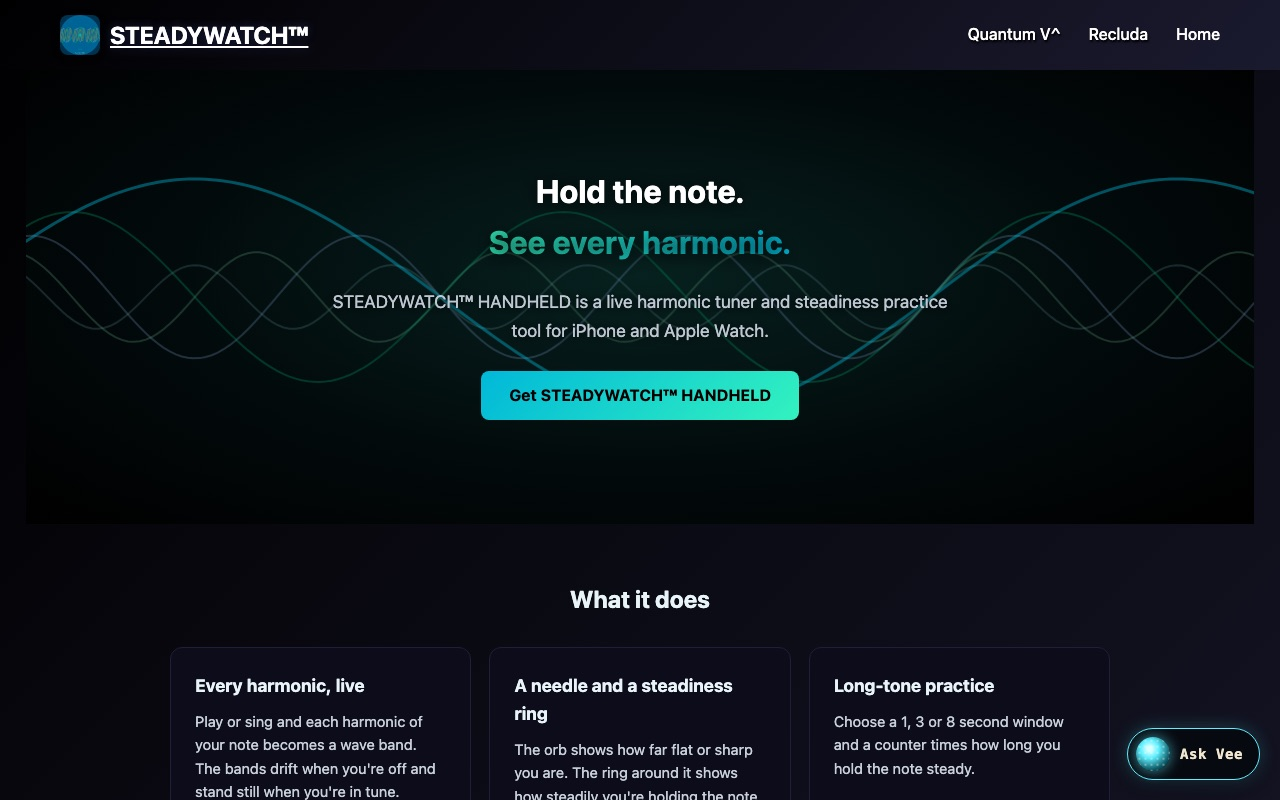
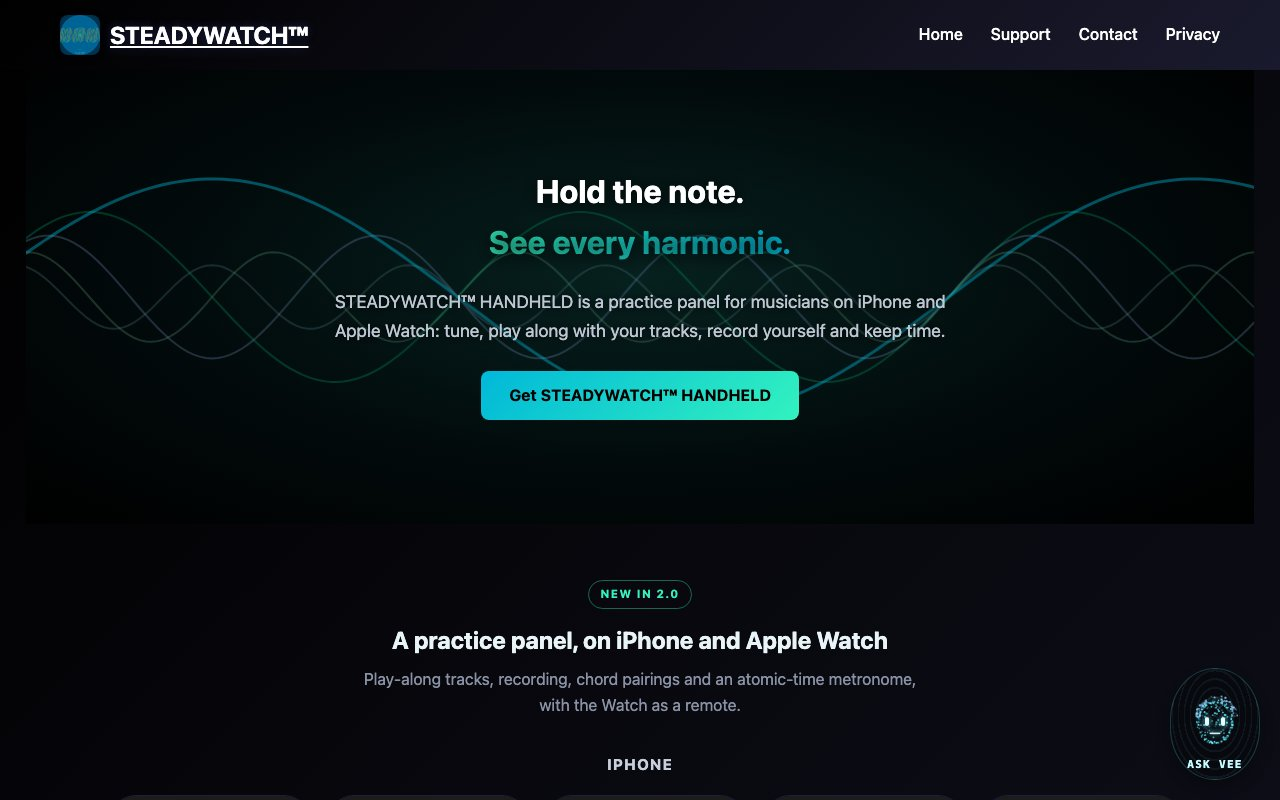
HANDHELD exhibit for 2.0 (approved): practice panel, six 2.0 modules, 2.0 screenshots, new steady-watch.com shot; office shows App Store v2.0.0

diff --git a/index.html b/index.html
@@ -510,13 +510,13 @@ const PROJECTS = [
     floor: 'l2', pos: [3.6, 3.2, 6.92], rotY: Math.PI, size: [3.7, 3.7]
   },
   {
-    id: 'handheld', name: 'STEADYWATCH™ HANDHELD', tagline: 'Harmonic Tuner', wing: 'Apps',
-    desc: 'A live harmonic tuner and steadiness practice tool for iPhone and Apple Watch. Play or sing, and every harmonic of your note becomes a wave band that stands still when you\'re in tune.',
-    modules: [['HARMONIC BANDS','Each harmonic of your note is a wave band: the bands drift while you\'re off pitch and stand still in tune'],['ORB NEEDLE','How far flat or sharp you are'],['STEADINESS RING','How steadily you hold the note over a 1, 3 or 8 second window, with a counter that times the hold'],['CHORDS','The notes sounding, the chord they make and the song\'s key'],['A4 TUNING','Set A4 from 415 to 446 Hz, with the Digital Crown on Apple Watch']],
+    id: 'handheld', name: 'STEADYWATCH™ HANDHELD', tagline: 'Practice Panel', wing: 'Apps',
+    desc: 'A practice panel for musicians on iPhone and Apple Watch: tune, play along with your tracks, record yourself and keep time. Tracks are analysed on the iPhone for their key, chords, tempo and bars, and nothing leaves the device.',
+    modules: [['TRACK','Play along with your music: its chord now and next, A·B loops, slow it down without changing the pitch, or change the key'],['REC','Record a take after a count-in on the beat; it becomes a track you can loop'],['CHORDS','Chord pairings on the circle of fifths, each in its own colours, played in time'],['TEMPO','A metronome on atomic time that listens to your timing'],['NOTE','Every harmonic of your note as a wave band that stands still in tune'],['APPLE WATCH','A tuner and haptic metronome on your wrist, and a remote for TRACK and REC']],
     stack: 'iPhone · Apple Watch · Swift · SwiftUI',
     links: [['App Store','https://apps.apple.com/us/app/steadywatch-handheld/id6755752518'],['steady-watch.com','https://steady-watch.com']],
     theme: { bg: '#00304d', fg: '#d9f2ee', accent: '#3fe0e0' }, logo: 'assets/steadywatch-icon.png', site: { url: 'https://steady-watch.com', label: 'steady-watch.com', shot: 'assets/site-steadywatch.jpg' },
-    shots: [4, 5, 3].map(n => `assets/shots/hh-${n}.jpg`),
+    shots: ['track', 'chords', 'tempo', 'rec', 'note'].map(n => `assets/shots/hh2-${n}.jpg`),
     floor: 'l2', pos: [-3.6, 3.2, 6.92], rotY: Math.PI, size: [3.7, 3.7]
   },
   {
@@ -571,7 +571,7 @@ const ABOUT = {
     ['Cryptography', 'P256 ECDSA · SHA-256 · Post-quantum encryption · Secure Enclave key management · Biometric key derivation'],
     ['Tools & practices', 'Xcode · Git · GitHub · LaTeX · Agile · Technical writing · Patent documentation']],
   work: [
-    { name: 'STEADYWATCH™ HANDHELD', version: 'App Store v1.0.15', logo: 'assets/steadywatch-icon.png' },
+    { name: 'STEADYWATCH™ HANDHELD', version: 'App Store v2.0.0', logo: 'assets/steadywatch-icon.png' },
     { name: 'KaizenDoku', version: 'App Store v2.4.2', logo: 'assets/kaizendoku-icon.png' }],
   contactRows: [['EMAIL', 'nate_vazquez@icloud.com'], ['LINKEDIN', 'in/nathaniel-vazquez-b41631153'], ['GITHUB', 'github.com/Infin-8'], ['WEB', 'steady-watch.com · recluda.com · kaizendoku.com']],
   extra: [['skills', 'Skills', 'Six categories, from languages to cryptography.'], ['work', 'Notable work', 'STEADYWATCH™ HANDHELD and KaizenDoku on the App Store.'], ['contact', 'Contact', 'Email, LinkedIn, GitHub and the product sites.']],
